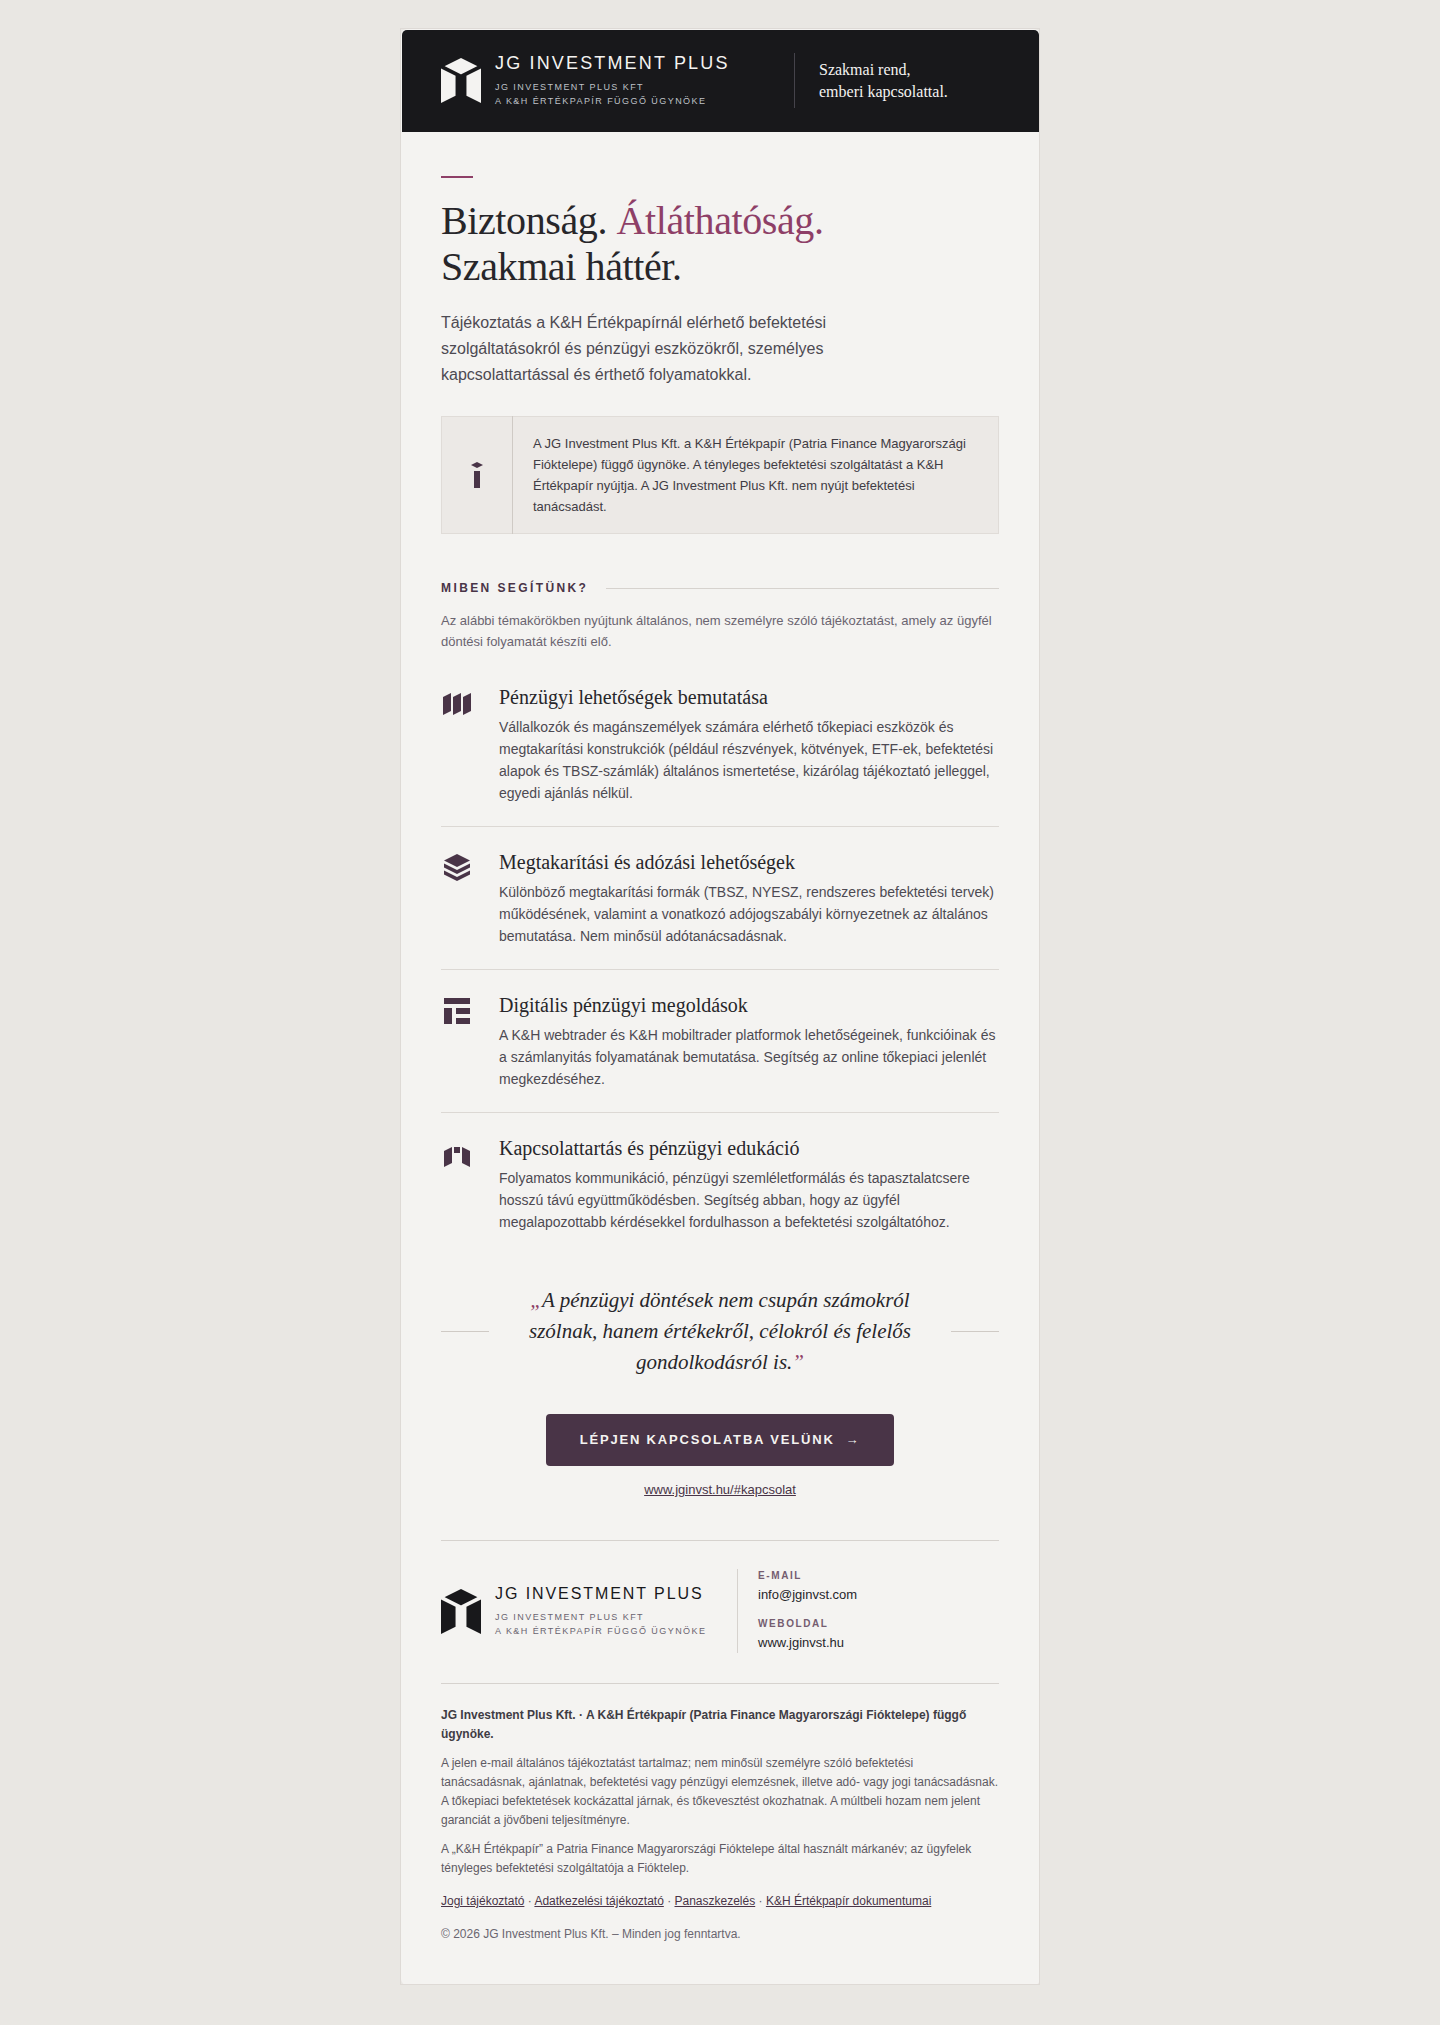
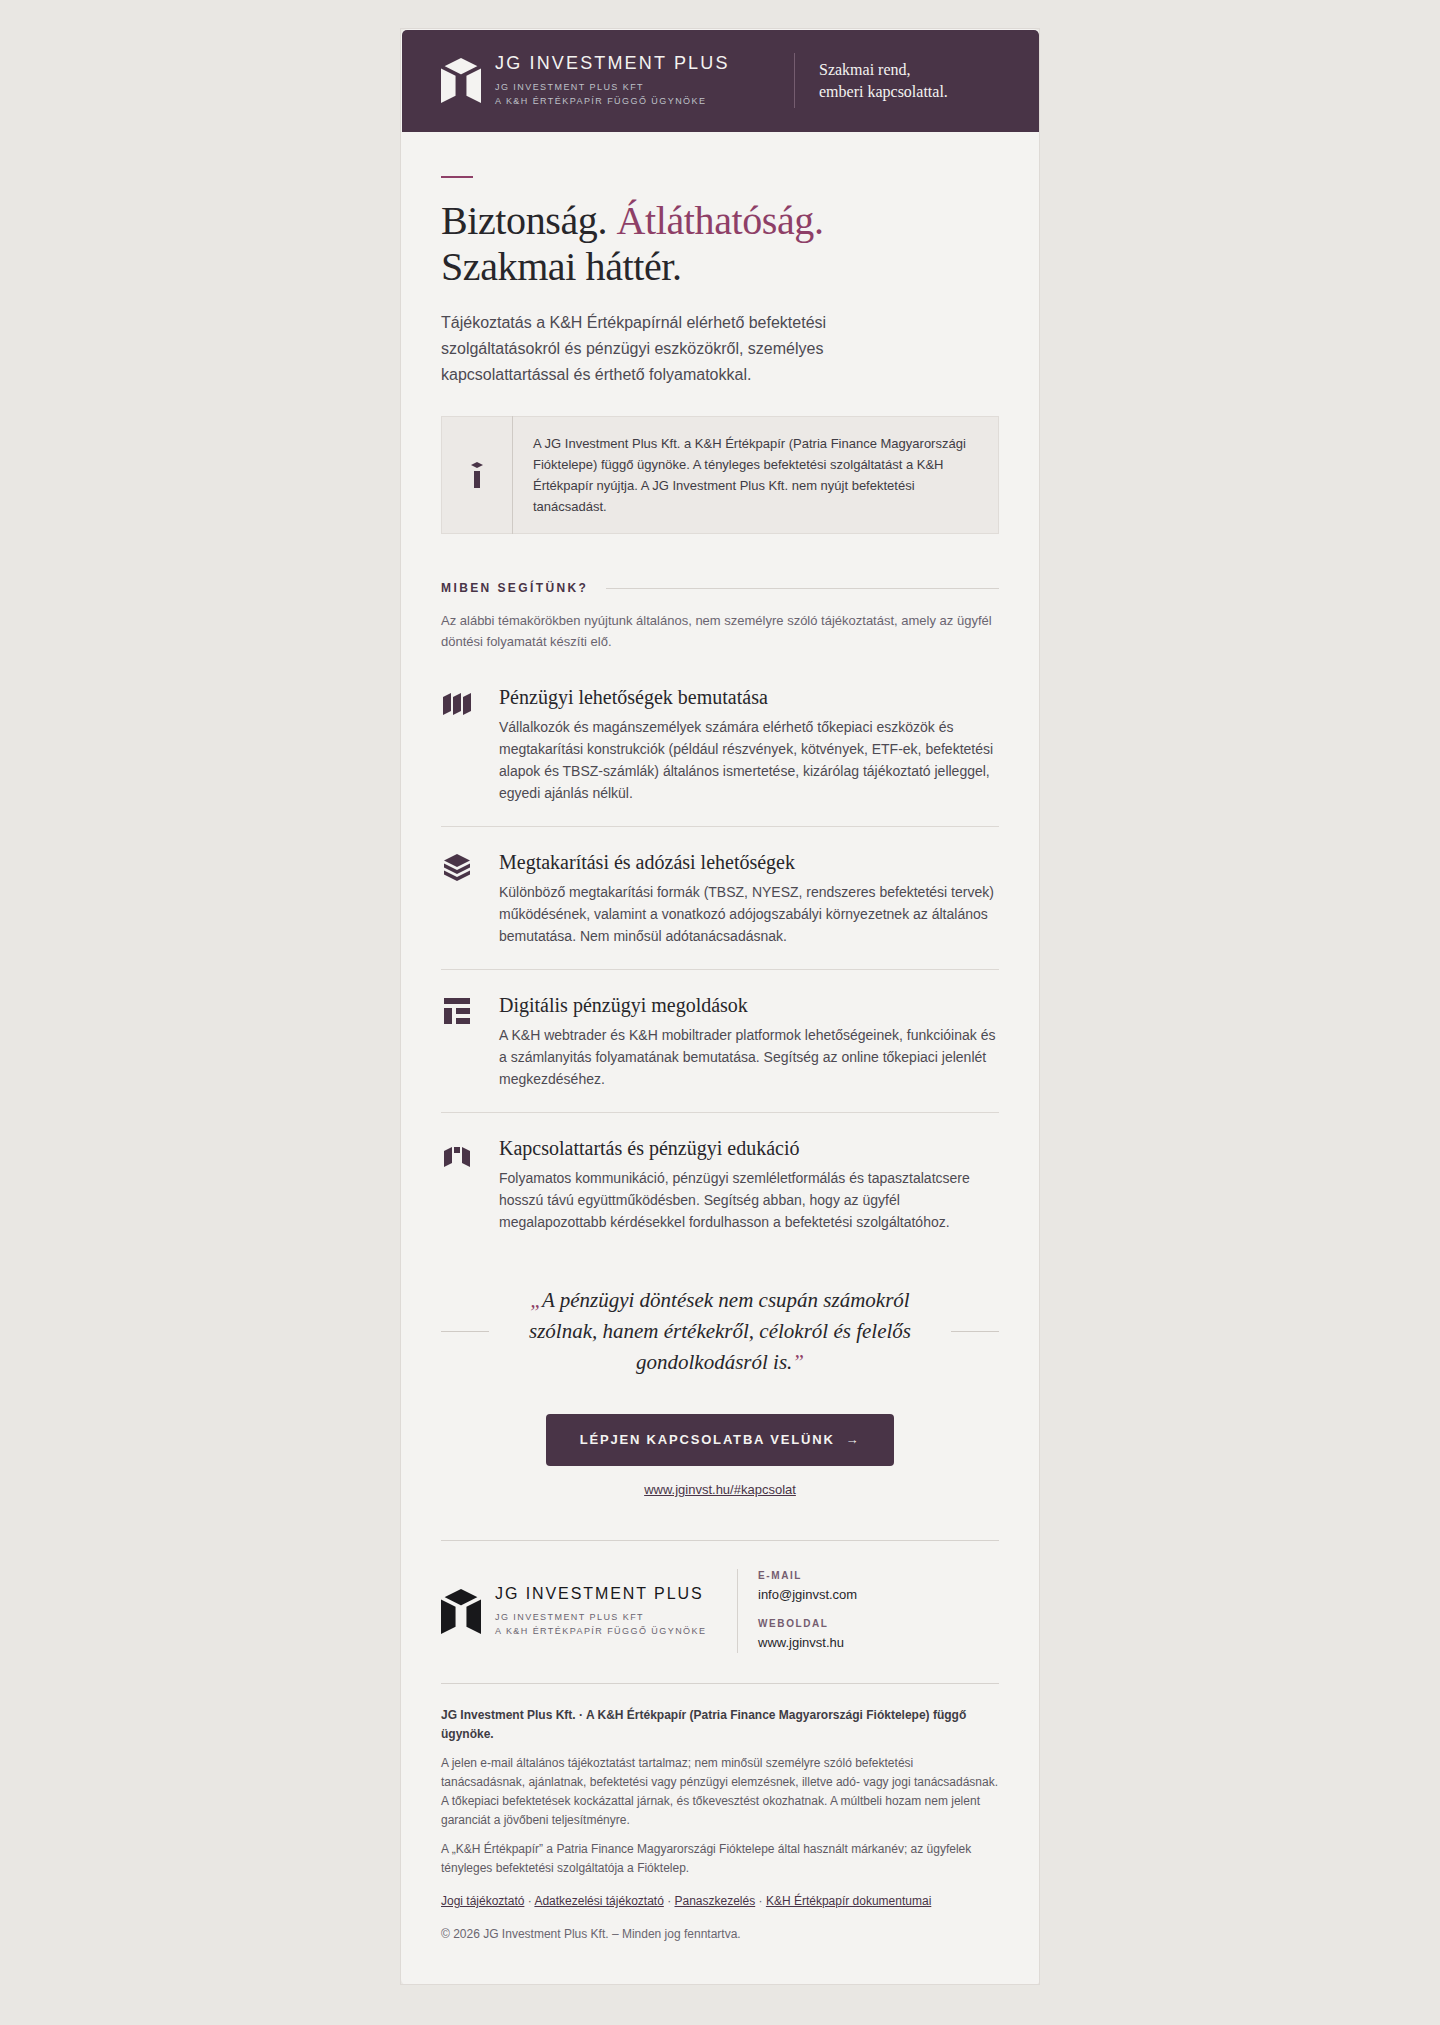
fix(email): match header to aubergine CTA
The email header background changes from Carbon #18181B to exactly the
CTA button colour, Aubergine #493447 (locked decision). The header mark
PNG (cid:jgMarkPorcelain) is re-rendered from the canonical geometry with
an Aubergine background so no Carbon rectangle shows around the logo, and
the tagline divider moves from #45434B to Muted Plum #755D70 so it stays
visible on the new background. Assets.gs, the Apps Script template copy,
the local preview and screenshots are regenerated; the footer mark and
the rest of the email are unchanged.

check-email.mjs now asserts header = CTA = #493447 and decodes both mark
PNGs to verify every pixel is a blend of mark and background colour.

Claude-Session: https://claude.ai/code/session_01LVmGb4xvyEXar82wYXxNQR

Changed region(s): [[0.2812, 0.0, 0.7188, 0.0622]]

diff --git a/emails/preview/jg-introduction-v2.preview.html b/emails/preview/jg-introduction-v2.preview.html
@@ -79,16 +79,16 @@
     <td style="background-color:#F4F3F1; border:1px solid #DEDAD6; border-radius:6px; overflow:hidden;">
     <table role="presentation" width="100%" cellpadding="0" cellspacing="0" border="0">
 
-      <!-- ============ HEADER (Carbon) — kompakt ============ -->
+      <!-- ============ HEADER (Aubergine = CTA szín) — kompakt ============ -->
       <tr>
-        <td class="px head" bgcolor="#18181B" style="background-color:#18181B; padding:24px 40px; border-radius:5px 5px 0 0;">
+        <td class="px head" bgcolor="#493447" style="background-color:#493447; padding:24px 40px; border-radius:5px 5px 0 0;">
           <table role="presentation" width="100%" cellpadding="0" cellspacing="0" border="0">
             <tr>
               <td class="stack" valign="middle" style="vertical-align:middle;">
                 <table role="presentation" cellpadding="0" cellspacing="0" border="0">
                   <tr>
                     <td valign="middle" width="40" style="width:40px; vertical-align:middle;">
-                      <img src="../assets/jg-mark-porcelain@2x.png" width="40" height="45" alt="" style="display:block; width:40px; height:45px; background-color:#18181B;">
+                      <img src="../assets/jg-mark-porcelain@2x.png" width="40" height="45" alt="" style="display:block; width:40px; height:45px; background-color:#493447;">
                     </td>
                     <td width="14" style="width:14px; font-size:0; line-height:0;">&nbsp;</td>
                     <td valign="middle" style="vertical-align:middle;">
@@ -98,7 +98,7 @@
                   </tr>
                 </table>
               </td>
-              <td class="stack head-tag" valign="middle" width="180" style="width:180px; vertical-align:middle; border-left:1px solid #45434B; padding-left:24px;">
+              <td class="stack head-tag" valign="middle" width="180" style="width:180px; vertical-align:middle; border-left:1px solid #755D70; padding-left:24px;">
                 <div class="serif head-tag-text" style="font-family:Newsreader, Georgia, 'Times New Roman', serif; font-size:16px; line-height:22px; color:#F4F3F1;">Szakmai rend,<br class="hide-m"> emberi kapcsolattal.</div>
               </td>
             </tr>

diff --git a/emails/apps-script/JGIntroductionV2.html b/emails/apps-script/JGIntroductionV2.html
@@ -77,16 +77,16 @@
     <td style="background-color:#F4F3F1; border:1px solid #DEDAD6; border-radius:6px; overflow:hidden;">
     <table role="presentation" width="100%" cellpadding="0" cellspacing="0" border="0">
 
-      <!-- ============ HEADER (Carbon) — kompakt ============ -->
+      <!-- ============ HEADER (Aubergine = CTA szín) — kompakt ============ -->
       <tr>
-        <td class="px head" bgcolor="#18181B" style="background-color:#18181B; padding:24px 40px; border-radius:5px 5px 0 0;">
+        <td class="px head" bgcolor="#493447" style="background-color:#493447; padding:24px 40px; border-radius:5px 5px 0 0;">
           <table role="presentation" width="100%" cellpadding="0" cellspacing="0" border="0">
             <tr>
               <td class="stack" valign="middle" style="vertical-align:middle;">
                 <table role="presentation" cellpadding="0" cellspacing="0" border="0">
                   <tr>
                     <td valign="middle" width="40" style="width:40px; vertical-align:middle;">
-                      <img src="cid:jgMarkPorcelain" width="40" height="45" alt="" style="display:block; width:40px; height:45px; background-color:#18181B;">
+                      <img src="cid:jgMarkPorcelain" width="40" height="45" alt="" style="display:block; width:40px; height:45px; background-color:#493447;">
                     </td>
                     <td width="14" style="width:14px; font-size:0; line-height:0;">&nbsp;</td>
                     <td valign="middle" style="vertical-align:middle;">
@@ -96,7 +96,7 @@
                   </tr>
                 </table>
               </td>
-              <td class="stack head-tag" valign="middle" width="180" style="width:180px; vertical-align:middle; border-left:1px solid #45434B; padding-left:24px;">
+              <td class="stack head-tag" valign="middle" width="180" style="width:180px; vertical-align:middle; border-left:1px solid #755D70; padding-left:24px;">
                 <div class="serif head-tag-text" style="font-family:Newsreader, Georgia, 'Times New Roman', serif; font-size:16px; line-height:22px; color:#F4F3F1;">Szakmai rend,<br class="hide-m"> emberi kapcsolattal.</div>
               </td>
             </tr>

diff --git a/emails/jg-introduction-v2.html b/emails/jg-introduction-v2.html
@@ -77,16 +77,16 @@
     <td style="background-color:#F4F3F1; border:1px solid #DEDAD6; border-radius:6px; overflow:hidden;">
     <table role="presentation" width="100%" cellpadding="0" cellspacing="0" border="0">
 
-      <!-- ============ HEADER (Carbon) — kompakt ============ -->
+      <!-- ============ HEADER (Aubergine = CTA szín) — kompakt ============ -->
       <tr>
-        <td class="px head" bgcolor="#18181B" style="background-color:#18181B; padding:24px 40px; border-radius:5px 5px 0 0;">
+        <td class="px head" bgcolor="#493447" style="background-color:#493447; padding:24px 40px; border-radius:5px 5px 0 0;">
           <table role="presentation" width="100%" cellpadding="0" cellspacing="0" border="0">
             <tr>
               <td class="stack" valign="middle" style="vertical-align:middle;">
                 <table role="presentation" cellpadding="0" cellspacing="0" border="0">
                   <tr>
                     <td valign="middle" width="40" style="width:40px; vertical-align:middle;">
-                      <img src="cid:jgMarkPorcelain" width="40" height="45" alt="" style="display:block; width:40px; height:45px; background-color:#18181B;">
+                      <img src="cid:jgMarkPorcelain" width="40" height="45" alt="" style="display:block; width:40px; height:45px; background-color:#493447;">
                     </td>
                     <td width="14" style="width:14px; font-size:0; line-height:0;">&nbsp;</td>
                     <td valign="middle" style="vertical-align:middle;">
@@ -96,7 +96,7 @@
                   </tr>
                 </table>
               </td>
-              <td class="stack head-tag" valign="middle" width="180" style="width:180px; vertical-align:middle; border-left:1px solid #45434B; padding-left:24px;">
+              <td class="stack head-tag" valign="middle" width="180" style="width:180px; vertical-align:middle; border-left:1px solid #755D70; padding-left:24px;">
                 <div class="serif head-tag-text" style="font-family:Newsreader, Georgia, 'Times New Roman', serif; font-size:16px; line-height:22px; color:#F4F3F1;">Szakmai rend,<br class="hide-m"> emberi kapcsolattal.</div>
               </td>
             </tr>

diff --git a/docs/email/jg-email-v2-spec.md b/docs/email/jg-email-v2-spec.md
@@ -19,7 +19,7 @@ A screenshot hibás emblémája **nincs** felhasználva: se asset, se trace, se 
 
 - Geometria: `M44 0 80 18 44 36 8 18Z M0 23 32 39 32 83 0 99Z M88 23 56 39 56 83 88 99Z`, viewBox `0 0 88 99`. Változatlan.
 - `render-assets.mjs` a kanonikus pathból renderel, és leáll, ha a `Logo.tsx` vagy a `public/brand/*.svg` eltér tőle.
-- Asset: `emails/assets/jg-mark-porcelain@2x.png` (CID `jgMarkPorcelain`; Porcelain jel Carbon alapon, fejléc) és `emails/assets/jg-mark-carbon@2x.png` (CID `jgMarkCarbon`; Carbon jel Porcelain alapon, lábléc), 80×90 px, megjelenítés 40×45 px. Privát fájlok, a weboldal nem szolgálja ki őket.
+- Asset: `emails/assets/jg-mark-porcelain@2x.png` (CID `jgMarkPorcelain`; Porcelain jel Aubergine `#493447` alapon, fejléc) és `emails/assets/jg-mark-carbon@2x.png` (CID `jgMarkCarbon`; Carbon jel Porcelain alapon, lábléc), 80×90 px, megjelenítés 40×45 px. Privát fájlok, a weboldal nem szolgálja ki őket.
 - A háttérszín bele van égetve (nem átlátszó PNG): ha egy kliens dark módban invertálja a háttereket, a jel nem tűnik el. Ilyenkor a jel egy kis, saját alapszínű téglalapon látszik — ez szándékos kompromisszum.
 - Wordmark: élő szöveg (`JG Investment Plus`, CSS-sel nagybetűs), Inter 500, 0,12em tracking, fallback `Inter, Arial, Helvetica, sans-serif`. Fejlécben 18 px → jel 2,5em = 45 px, térköz 14 px (≈ 1,25X), a logo-system §5 horizontális lockupja szerint.
 - A lockupban a jel `alt=""`: a nevet a mellette álló wordmark adja (logo-system §5 akadálymentességi szabály), így a képek letiltásakor sem duplázódik.
@@ -31,7 +31,7 @@ A screenshot hibás emblémája **nincs** felhasználva: se asset, se trace, se 
 | Szélesség | 640 px konténer, középre; mobilon 100% |
 | Külső háttér | `#E9E7E3` (meleg, a Porcelain-nél kissé sötétebb); konténer Porcelain `#F4F3F1` |
 | View-in-browser | **Megszűnt.** Nincs publikus online változat, ezért a sor és a `{{VIEW_ONLINE_URL}}` helyőrző kikerült. A konténer fölött 28 px térköz maradt. |
-| Fejléc | Kompakt (24 px függőleges padding, mobilon 18 px). Carbon `#18181B`; bal: jel + wordmark + `hero.eyebrowLines`; jobb: hajszálvonal + „Szakmai rend, emberi kapcsolattal.” (Newsreader 16 px). Mobilon a tagline egy sorban, 14 px, Cool Silver színnel a wordmark alá igazítva. |
+| Fejléc | Kompakt (24 px függőleges padding, mobilon 18 px). **Aubergine `#493447`, pontosan a CTA gomb színe (LOCKED)**; a jel PNG-jének háttere is `#493447`, ezért nincs körülötte eltérő folt. Bal: jel + wordmark + `hero.eyebrowLines` (Porcelain / Cool Silver); jobb: Muted Plum `#755D70` hajszálvonal + „Szakmai rend, emberi kapcsolattal.” (Newsreader 16 px). Mobilon a tagline egy sorban, 14 px, Cool Silver színnel a wordmark alá igazítva. |
 | Hero | Kép nélküli, tipográfiai: 32×2 px-es Signal Berry jelzővonal (a weboldal lábléc-osztójának mintájára), Newsreader 40/46 főcím (mobilon 31/37), „Átláthatóság.” Signal Berry `#8E3F67`; intro Inter 16/26 (mobilon 15/24), asztali nézetben 90 px jobb oldali térközzel a sorhossz miatt |
 | Státuszközlés | `#ECE9E6` doboz, saját „i” ikon (rombusz + pillér), függőleges elválasztó, `statusNotice.body` szó szerint |
 | Miben segítünk? | Aubergine tracked címke + hajszálvonal, `services.lead`, majd 4 kompakt sor: 32 px ikon, Newsreader 20 px cím, Inter 14/22 szöveg |
